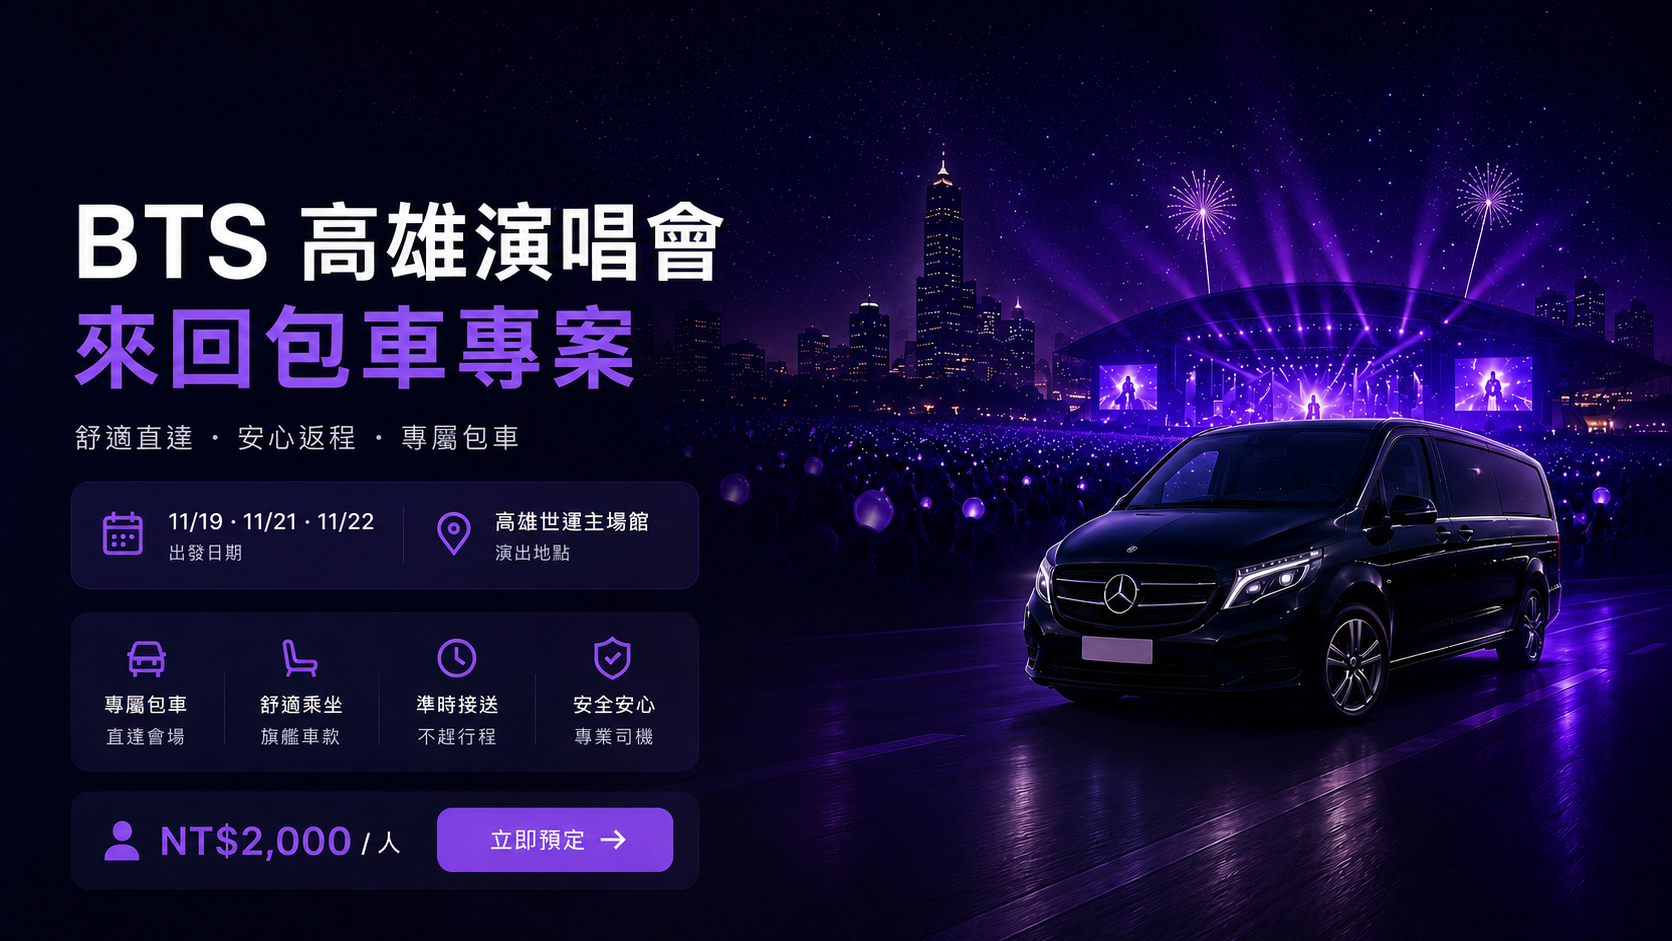
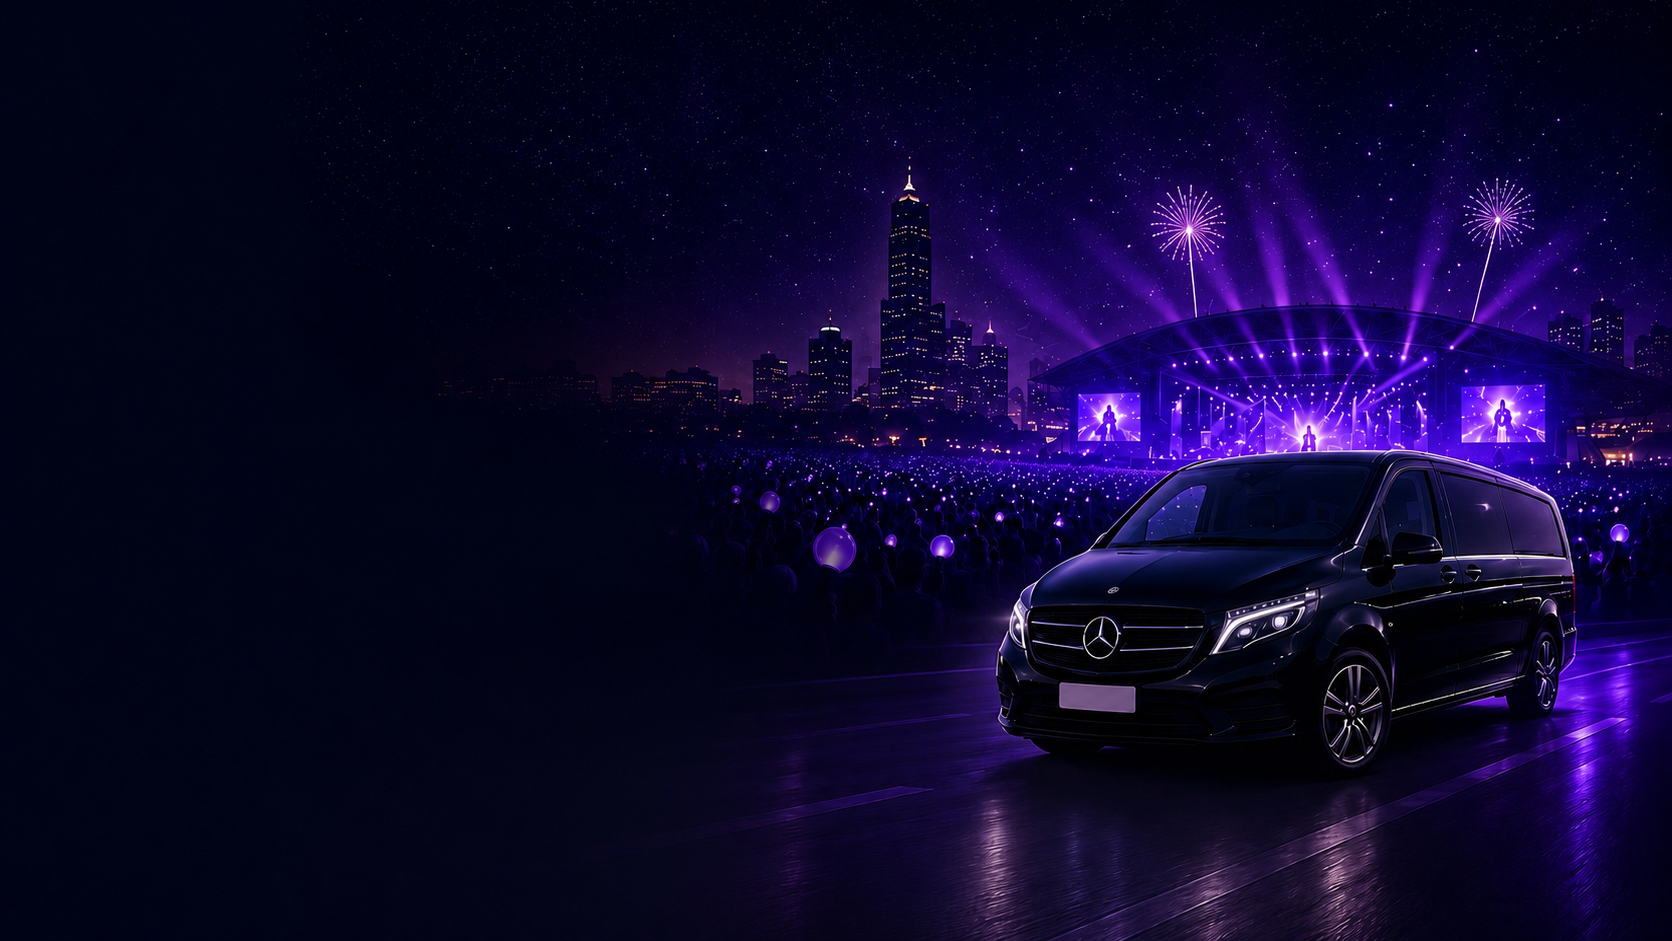
feat(home-v2): 換用無文字版背景圖，移除 CSS 漸層遮罩
新版設計稿已移除所有文字元件，
直接以 background-image 依 RWD 切換三個斷點背景圖。

diff --git a/app/templates/passenger/home_v2.html b/app/templates/passenger/home_v2.html
@@ -9,46 +9,22 @@
     * { font-family: -apple-system, BlinkMacSystemFont, "SF Pro Display", "Segoe UI", sans-serif; }
 
     /* ── Hero background ── */
-    /* Mobile: 設計稿上方為文字，用頂部深色遮罩蓋住，下方保留車輛/舞台視覺 */
     .hero-v2 {
       background:
-        linear-gradient(to bottom,
-          rgba(6,3,18,1)   0%,
-          rgba(6,3,18,1)  45%,
-          rgba(6,3,18,0.6) 65%,
-          rgba(6,3,18,0.2) 85%,
-          rgba(6,3,18,0)  100%
-        ),
         url('{{ url_for("static", filename="images/homepage-mobile.png") }}') center top / cover no-repeat;
       position: relative;
       overflow: hidden;
       min-height: 100vh;
     }
-    /* Tablet: 設計稿文字在左側，左側遮罩 + 右側保留視覺 */
     @media (min-width: 640px) {
       .hero-v2 {
         background:
-          linear-gradient(to right,
-            rgba(6,3,18,1)   0%,
-            rgba(6,3,18,1)  38%,
-            rgba(6,3,18,0.55) 54%,
-            rgba(6,3,18,0.1) 72%,
-            rgba(6,3,18,0)  85%
-          ),
           url('{{ url_for("static", filename="images/homepage-tablet.png") }}') center top / cover no-repeat;
       }
     }
-    /* Desktop: 設計稿文字在左側，左側遮罩 + 右側車輛/舞台/燈光完整露出 */
     @media (min-width: 1024px) {
       .hero-v2 {
         background:
-          linear-gradient(to right,
-            rgba(6,3,18,1)   0%,
-            rgba(6,3,18,1)  36%,
-            rgba(6,3,18,0.5) 50%,
-            rgba(6,3,18,0.1) 64%,
-            rgba(6,3,18,0)  78%
-          ),
           url('{{ url_for("static", filename="images/homepage-desktop.png") }}') center top / cover no-repeat;
       }
     }
